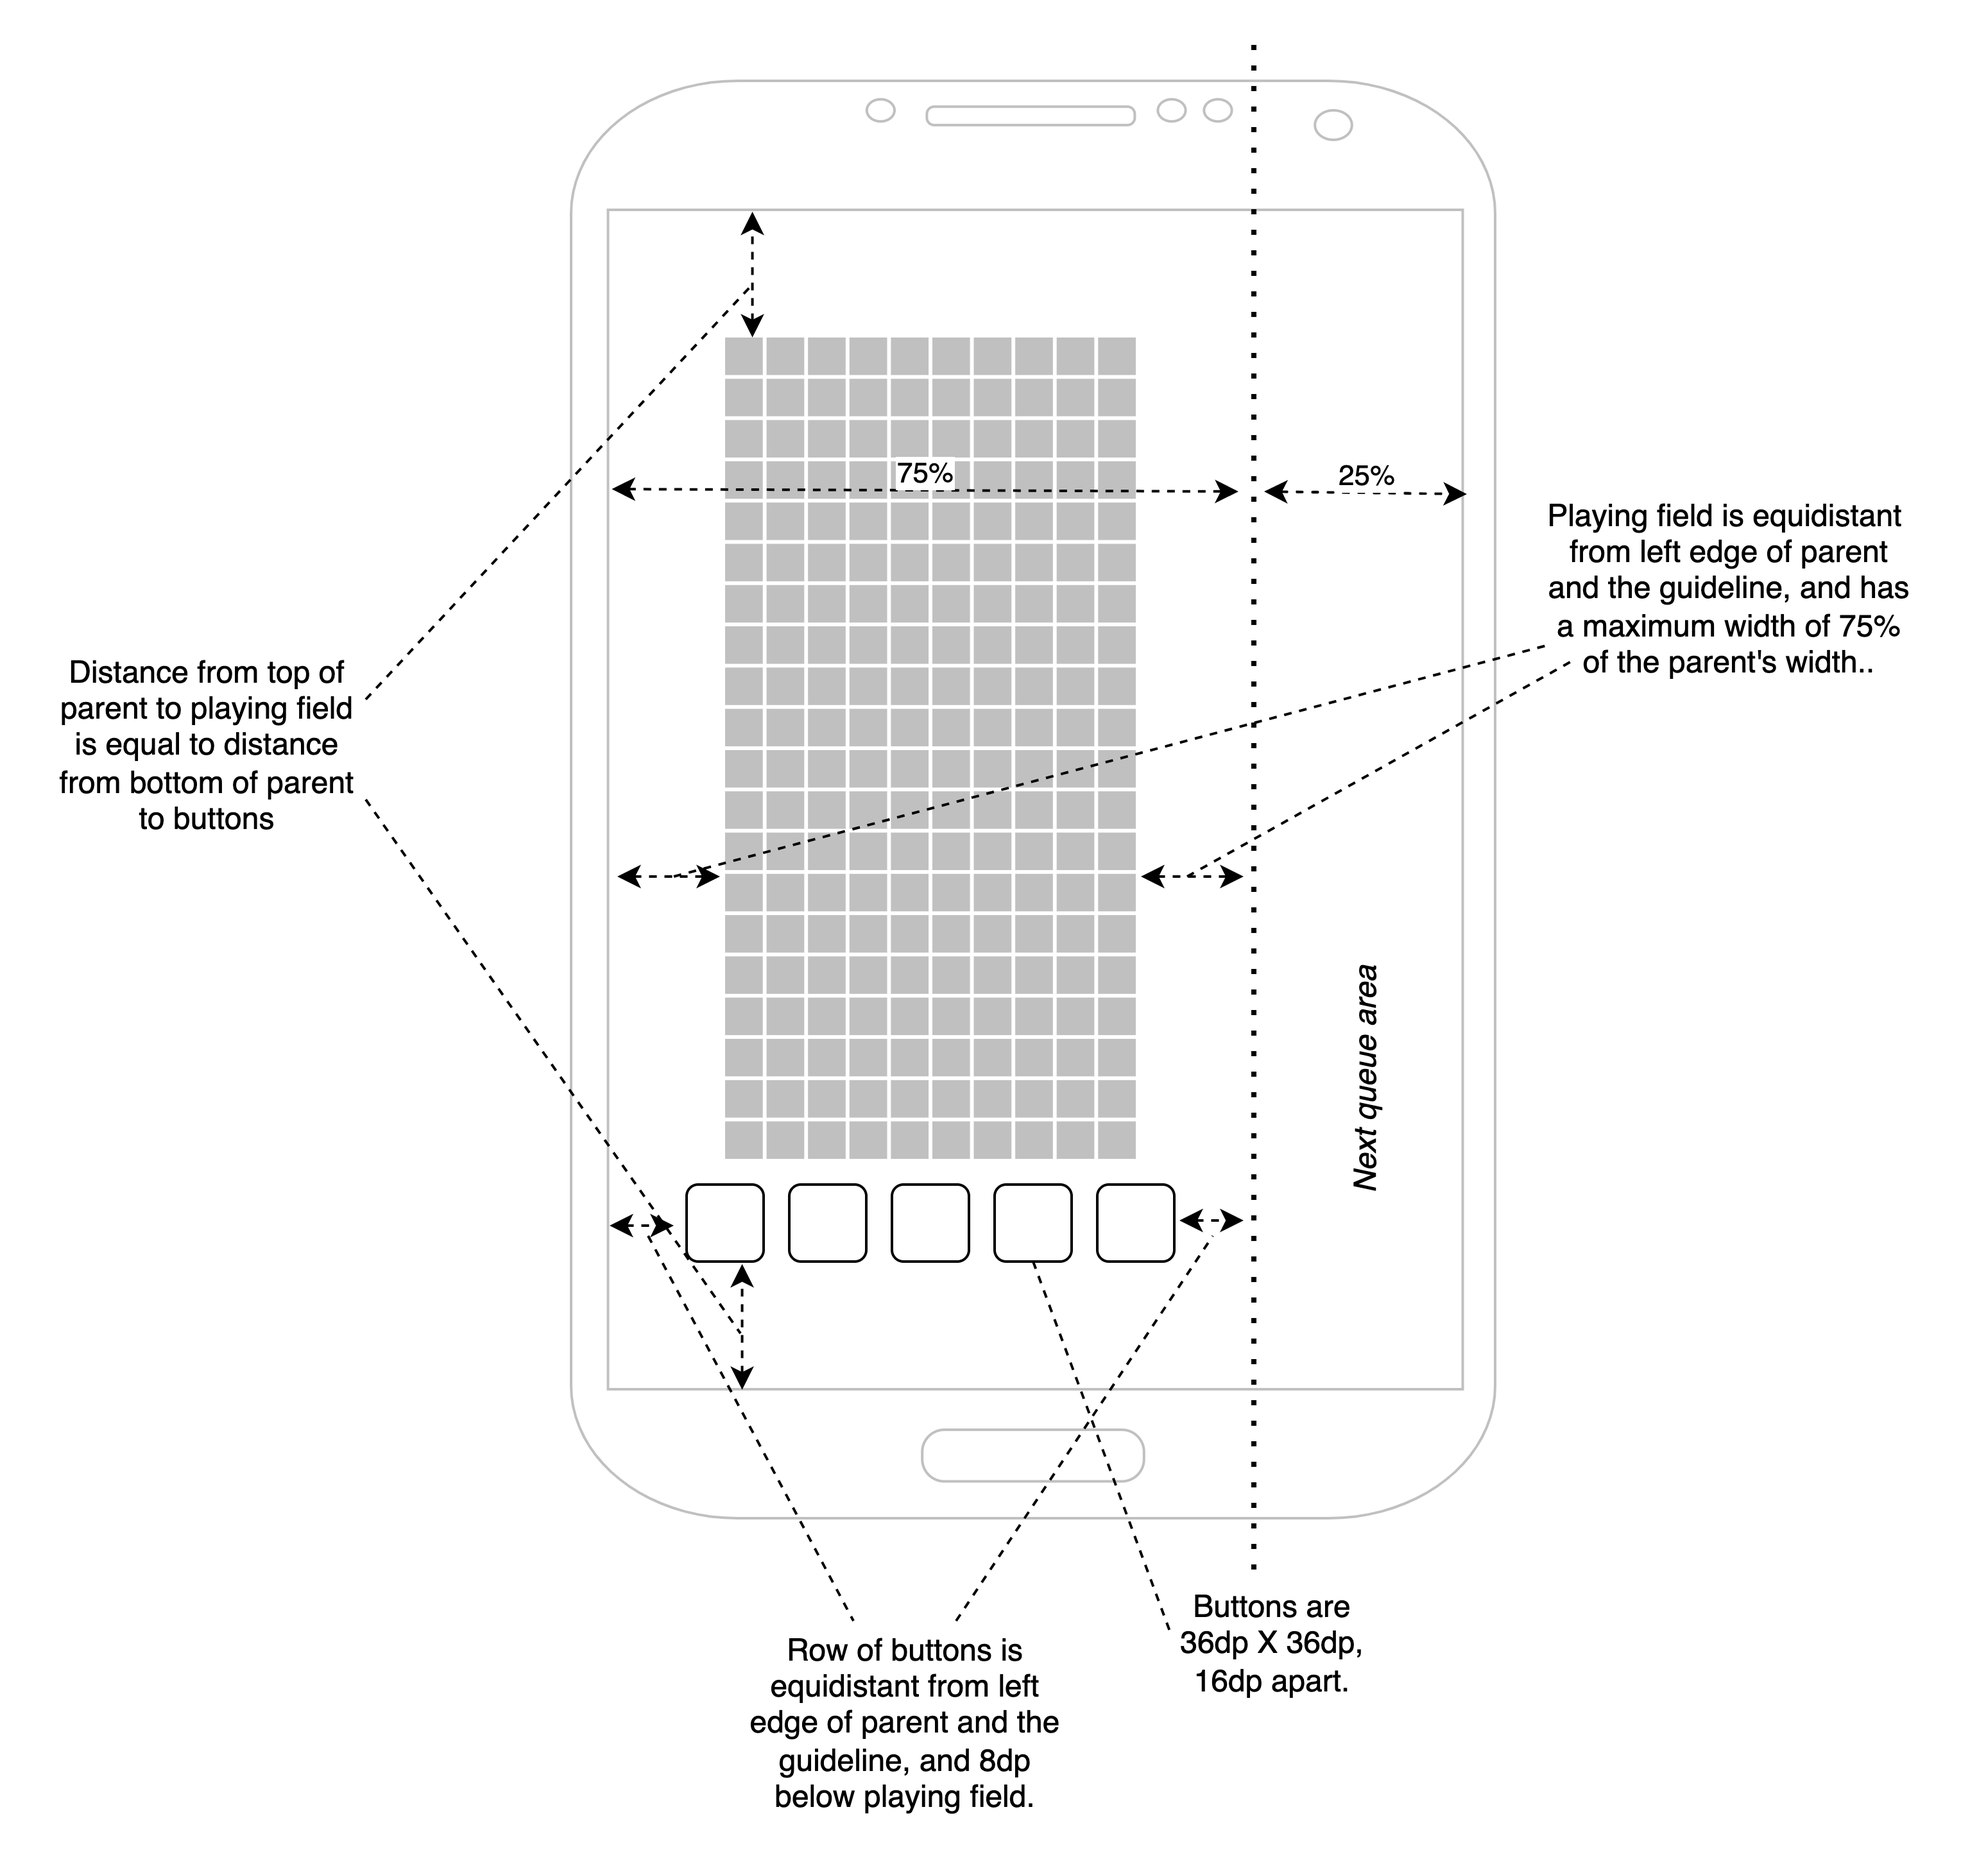
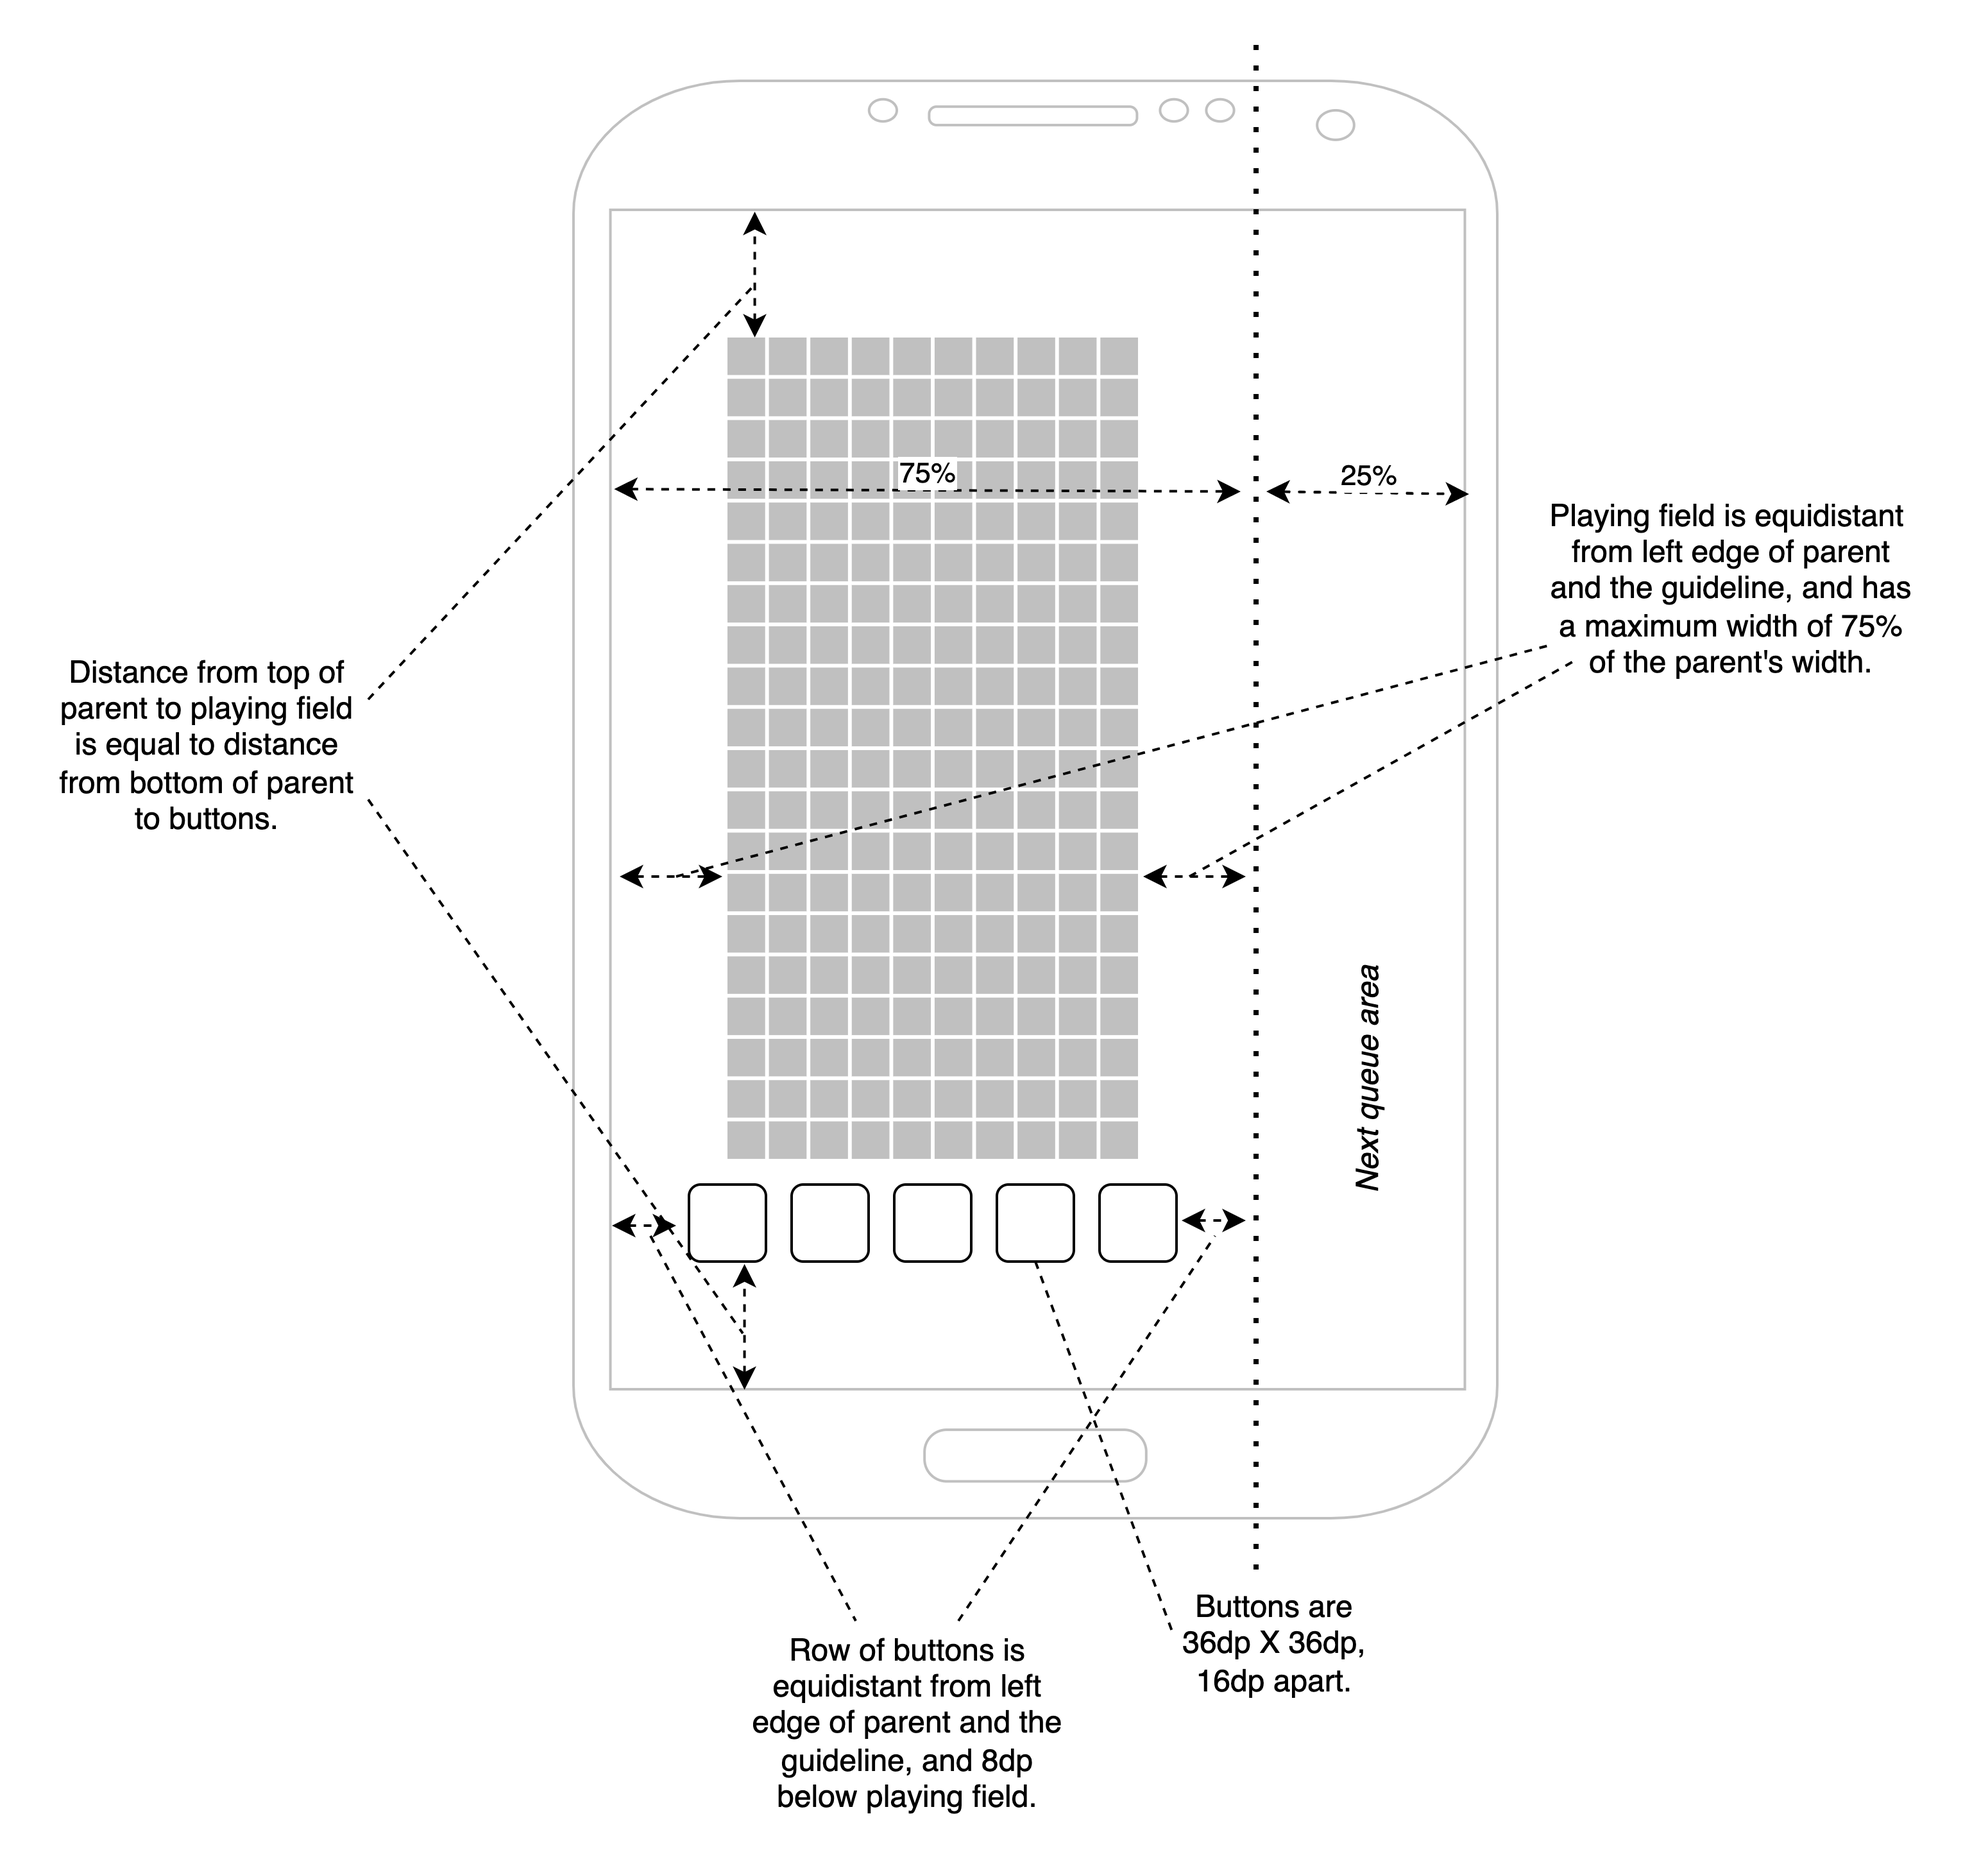
Queue-controlled dynamic sizing of PlayingFieldView.

diff --git a/app/src/main/java/edu/cnm/deepdive/tetris/view/PlayingFieldView.java b/app/src/main/java/edu/cnm/deepdive/tetris/view/PlayingFieldView.java
@@ -6,6 +6,7 @@ import android.util.AttributeSet;
 import android.view.LayoutInflater;
 import android.view.View;
 import android.view.ViewGroup;
+import android.view.ViewGroup.LayoutParams;
 import android.widget.ArrayAdapter;
 import android.widget.GridView;
 import android.widget.ImageView;
@@ -44,8 +45,17 @@ public class PlayingFieldView extends GridView {
 
   public void setPlayingField(Field playingField) {
     this.playingField = playingField;
+    int heightInBricks = playingField.getHeight() - playingField.getBufferHeight();
+    int widthInBricks = playingField.getWidth();
+    int maxBrickHeight = getHeight() / heightInBricks;
+    int maxBrickWidth = getWidth() / widthInBricks;
+    ViewGroup.LayoutParams params = getLayoutParams();
+    int columnSize = Math.min(maxBrickHeight, maxBrickWidth);
+    params.height = columnSize * heightInBricks;
+    params.width = columnSize * widthInBricks;
+    setLayoutParams(params);
+    setNumColumns(widthInBricks);
     setAdapter(new Adapter(getContext()));
-    setNumColumns(playingField.getWidth());
   }
 
   private class Adapter extends ArrayAdapter<ShapeType> {

diff --git a/app/src/main/java/edu/cnm/deepdive/tetris/controller/GameFragment.java b/app/src/main/java/edu/cnm/deepdive/tetris/controller/GameFragment.java
@@ -41,9 +41,8 @@ public class GameFragment extends Fragment {
         .get(PlayingFieldViewModel.class);
     playingFieldViewModel
         .getPlayingField()
-        .observe(getViewLifecycleOwner(), (playingField) -> {
-          binding.playingField.setPlayingField(playingField);
-        });
+        .observe(getViewLifecycleOwner(), (playingField) ->
+            binding.playingField.post(() -> binding.playingField.setPlayingField(playingField)));
   }
 
 }
